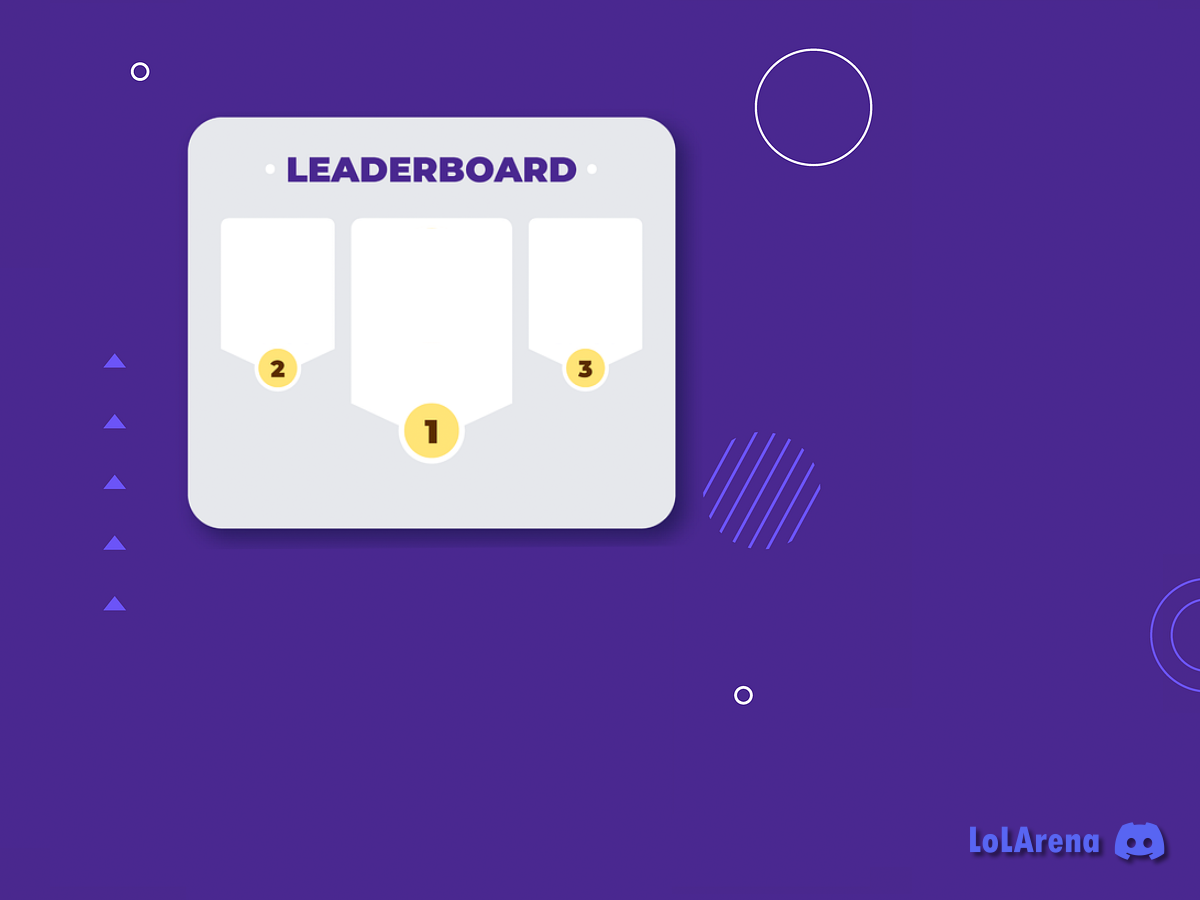
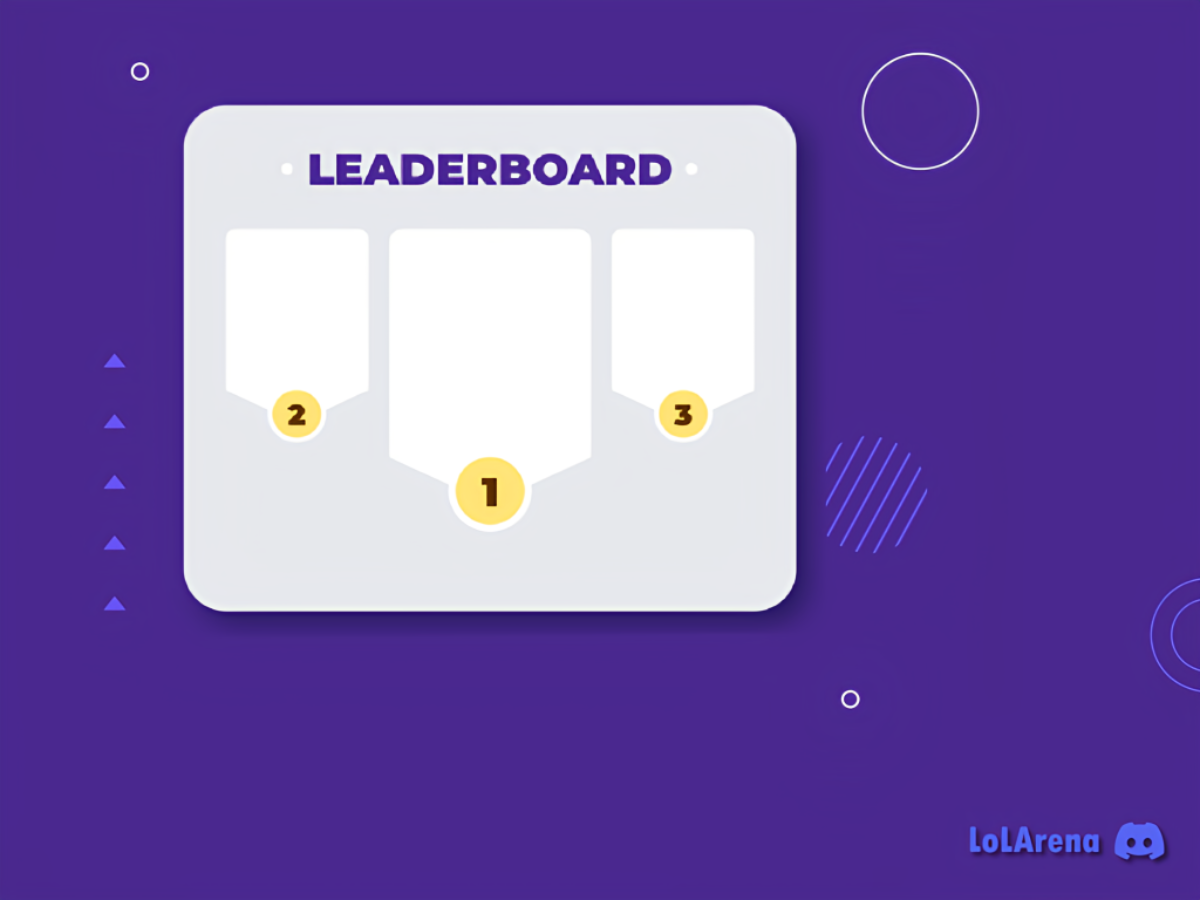
leaderboard image generation

diff --git a/main.py b/main.py
@@ -298,7 +298,8 @@ class SeeAllLeaderboardView(View):
 
     async def show_more_callback(self, interaction: discord.Interaction):
         # Call list_leaderboard when the button is clicked
-        await list_leaderboard(interaction)
+        embed, view = await create_leaderboard(interaction)
+        await interaction.response.send_message(embed=embed, view=view)
         # You can add an acknowledgment message or update the original message here if needed
         await interaction.response.defer()  # Optionally respond to the interaction without sending a message
 
@@ -349,34 +350,26 @@ def split_leaderboard(leaderboard, length=3):
     guild=discord.Object(id=GUILD_ID)
 )
 async def send_leaderboard_image(interaction: discord.Interaction):
-    wins_data = load_champion_wins()
-    leaderboard = {}
-
-    for id, info in wins_data.items():
-        user = discord.utils.get(interaction.guild.members, name=info['name'])
-        if user:
-            leaderboard[id] = len(info['wins'])
-
-    leaderboard = dict(sorted(leaderboard.items(), key=lambda item: item[1], reverse=True))
-    leaderboard = split_leaderboard(leaderboard)
-    
-    # Fetch avatars and usernames
-    avatar_info = [fetch_discord_avatar_and_username(user_id, BOT_TOKEN) for user_id in leaderboard.keys()]
+    # Acknowledge the interaction and inform the user that the image is being generated.
+    await interaction.response.defer()  # Use ephemeral if you want it to be visible only to the user
+    await interaction.followup.send("Generating the leaderboard image, please wait...")
 
     # Generate the leaderboard image
+    wins_data = load_champion_wins()
+    leaderboard = {id: len(info['wins']) for id, info in wins_data.items() if discord.utils.get(interaction.guild.members, name=info['name'])}
+
+    # Sort and split the leaderboard
+    leaderboard = dict(sorted(leaderboard.items(), key=lambda item: item[1], reverse=True))
+    avatar_info = [fetch_discord_avatar_and_username(user_id, BOT_TOKEN) for user_id in leaderboard.keys()]
     file_path = await generate_leaderboard_with_avatars(leaderboard, avatar_info)
 
-    # Send the image to the Discord channel
+    # Replace the loading message with the actual image
     file = discord.File(file_path, filename="leaderboard.png")
     view = SeeAllLeaderboardView(interaction=interaction)  # Initialize the view with the current context
-    await interaction.response.send_message(file=file, view=view)
+    await interaction.edit_original_response(content="", attachments=[file], view=view)
 
-@tree.command(
-    name="leaderboard",
-    description="Show leaderboard of server",
-    guild=discord.Object(id=GUILD_ID)
-)
-async def list_leaderboard(interaction: discord.Interaction):
+
+async def create_leaderboard(interaction: discord.Interaction): 
     WINS_FILE = load_champion_wins()
     leaderboard = {}
 
@@ -395,6 +388,16 @@ async def list_leaderboard(interaction: discord.Interaction):
     ) 
 
     view = View()
+
+    return embed, view
+
+@tree.command(
+    name="leaderboard",
+    description="Show leaderboard of server",
+    guild=discord.Object(id=GUILD_ID)
+)
+async def list_leaderboard(interaction: discord.Interaction):
+    embed, view = await create_leaderboard(interaction)
     await interaction.response.send_message(embed=embed, view=view)
 
 @tree.command(
@@ -595,38 +598,28 @@ async def generate_leaderboard_with_avatars(leaderboard_data, avatar_info):
     background = Image.open('assets/leaderboard_bg1.png').convert('RGBA')
     fonts = {
         0: ImageFont.truetype("assets/Heavitas.ttf", 28),  # Larger font for 1st place
-        1: ImageFont.truetype("assets/Heavitas.ttf", 18),  # Smaller font for 2nd place
-        2: ImageFont.truetype("assets/Heavitas.ttf", 18)   # Smaller font for 3rd place
+        1: ImageFont.truetype("assets/Heavitas.ttf", 20),  # Standard font for others
+        2: ImageFont.truetype("assets/Heavitas.ttf", 20)
     }
 
-    # Define placement coordinates and sizes for each position based on the number of entries
-    num_entries = len(leaderboard_data)
-    if num_entries == 1:
-        placements = {0: (371, 238, 119, 119)}  # Only first place
-        text_offsets = {0: (371, 370)}
-    elif num_entries == 2:
-        placements = {0: (239, 238, 119, 119), 1: (547, 238, 119, 119)}  # First and second places swapped
-        text_offsets = {0: (239, 370), 1: (547, 370)}
-    else:
-        placements = {0: (547, 238, 77, 77), 1: (371, 238, 119, 119), 2: (239, 238, 77, 77)}
-        text_offsets = {0: (547, 325), 1: (371, 370), 2: (239, 325)}
+    # Configuration for avatar and text placement
+    config = [
+        {"coords": (414, 250, 152, 152), "text_offset": (420, 420)},  # First place
+        {"coords": (245, 250, 105, 105), "text_offset": (255, 365)},  # Second place
+        {"coords": (630, 250, 105, 105), "text_offset": (640, 420)}   # Third place
+    ]
 
     draw = ImageDraw.Draw(background)
-    for index, ((user_id, score), (avatar_url, username)) in enumerate(zip(sorted(leaderboard_data.items(), key=lambda item: item[1], reverse=True)[:3], avatar_info)):
-        if avatar_url.startswith('http'):
-            response = requests.get(avatar_url)
-            avatar_image = Image.open(BytesIO(response.content))
-        else:
-            avatar_image = Image.open(avatar_url)  # Open from local path if URL is not valid
-
-        avatar_image = avatar_image.convert('RGBA')
-        x, y, width, height = placements[index]
-        avatar_image = avatar_image.resize((width, height))
+    print(f"leaderboard_data = {leaderboard_data}")
+    sorted_leaderboard = sorted(leaderboard_data.items(), key=lambda item: item[1], reverse=True)[:3]
+    print(f"sorted_leaderboard = {sorted_leaderboard}")
+    
+    for index, ((user_id, score), (avatar_url, username)) in enumerate(zip(sorted_leaderboard, avatar_info)):
+        avatar_image = Image.open(BytesIO(requests.get(avatar_url).content) if avatar_url.startswith('http') else avatar_url)
+        avatar_image = avatar_image.convert('RGBA').resize((config[index]["coords"][2], config[index]["coords"][3]))
         mask = avatar_image.split()[3] if 'A' in avatar_image.getbands() else None
-        background.paste(avatar_image, (x, y), mask)
-
-        text_x, text_y = text_offsets[index]
-        draw.text((text_x, text_y), f"{score} Wins", font=fonts[index], fill='#553EF9')
+        background.paste(avatar_image, config[index]["coords"][:2], mask)
+        draw.text(config[index]["text_offset"], f"{score} Wins", font=fonts[index], fill='#553EF9')
 
     file_path = 'leaderboards/leaderboard_with_avatars.png'
     background.save(file_path)
